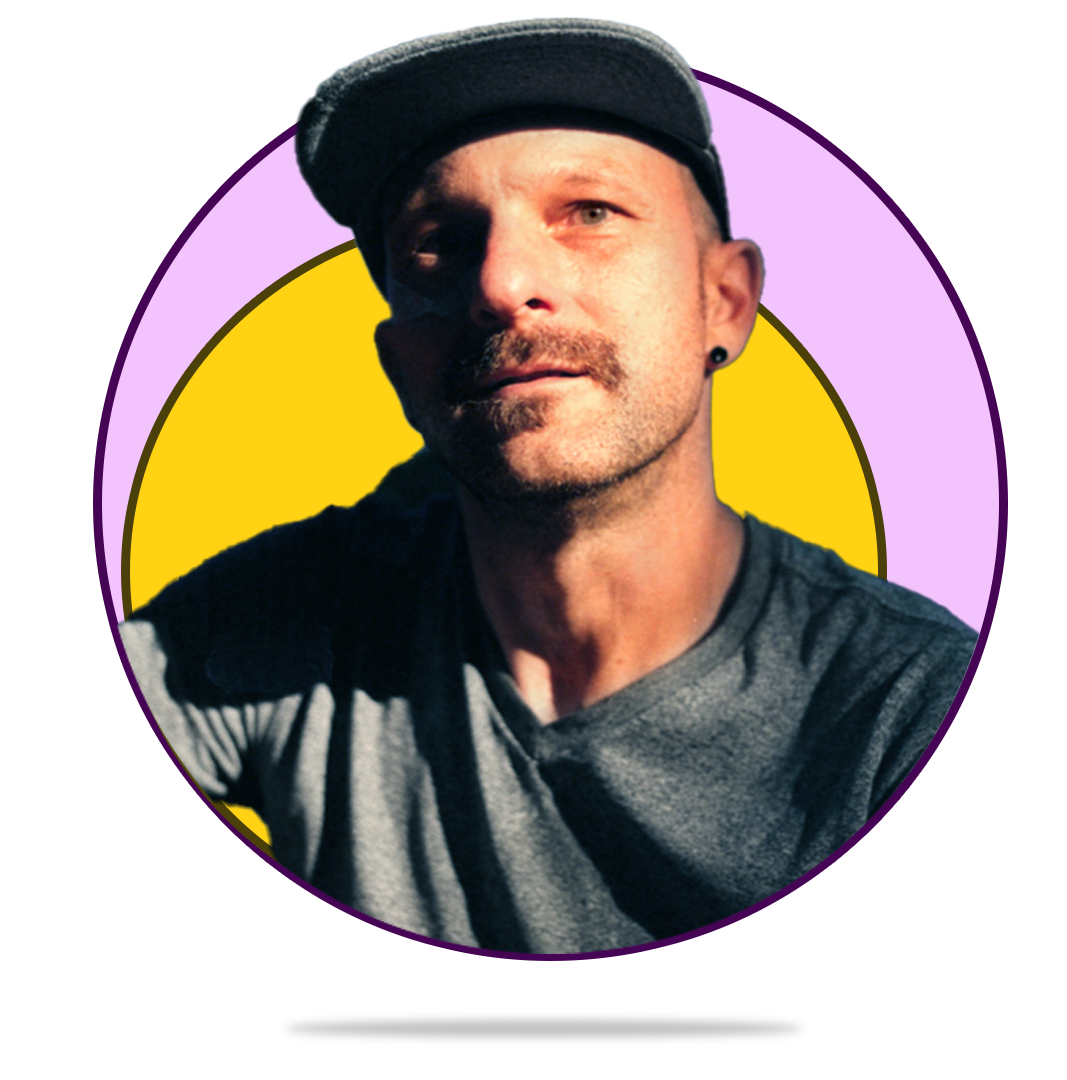
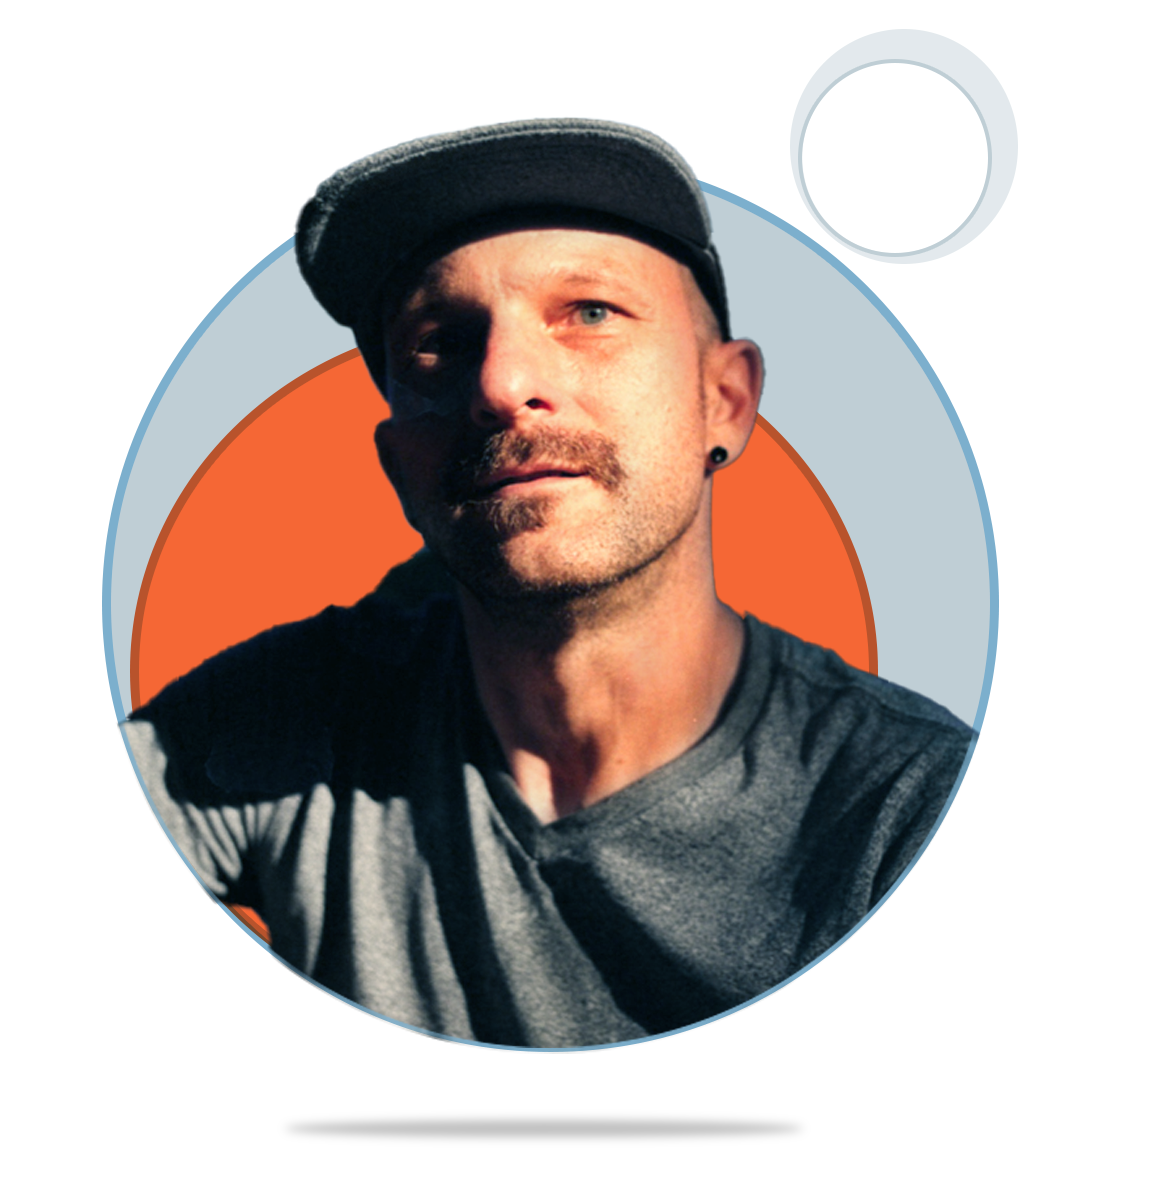
Bare bones version

diff --git a/_sass/_common.scss b/_sass/_common.scss
@@ -1,7 +1,7 @@
 // Start Default css
 
 
-@import url('https://fonts.googleapis.com/css?family=Montserrat:400,500,600,700|Oswald:300,500,600&display=swap');
+@import url('https://fonts.googleapis.com/css2?family=Lora:ital,wght@0,400..700;1,400..700&family=Montserrat:ital,wght@0,100..900;1,100..900&display=swap');
 
 *{
 	margin: 0;
@@ -22,24 +22,28 @@ a{
 h1,h2,h3,h4,h5,h6{
 	margin: 0;
 	padding: 0;
-	font-family: $font2;
+	font-family: $font1;
 	color: $title;
 }
 h1{
 	font-family: $font1;
-	font-size: 58px;
+	font-size: 6em;
 	font-weight: 700;
+	line-height: 1;
 	
 	span {
-		font-family: $font2;
+		color: $neutral;
 	}
 }
+
 h2{
 	font-size: 45px;
 	font-weight: 700;
 }
 h3{
-	font-size: 30px;
+	font-size: 2em;
+	text-transform: uppercase;
+	color: $base-minus-1;
 }
 h4{
 	font-size: 22px;
@@ -113,7 +117,7 @@ body{
 		position: relative;
 		&:after{
 		    position: absolute;
-		    content: '';
+		    //content: '';
 		    top: -20px;
 		    background: url(../images/shape/title.png) no-repeat;
 		    display: inline-block;
@@ -123,24 +127,44 @@ body{
 		}
 	}
 }
+
+.btn_group {
+	.deneb_btn {
+		margin-right:1em;
+	}
+}
 .deneb_btn{
 	display: inline-block;
 	min-width: 127px;
 	height: 45px;
 	color: $white;
-	font: 500 15px $font1;
+	font: 700 1em $font1;
 	text-align: center;
-	background: $theme_color;
+	@include gradient;
 	line-height: 45px;
-	border-radius: 23px;
+	border-radius: 4px;
 	text-transform: uppercase;
 	letter-spacing: 1px;
 	@include transition(.5s);
 	&:hover,&:focus{
-		color: $white !important;
-		box-shadow: 2.5px 4.33px 15px 0px rgba(254, 176, 0, 0.4);
+		background: darken($accent, 10%);
+		color: $white;
+		//box-shadow: 2.5px 4.33px 15px 0px rgba(254, 176, 0, 0.4);
+	}
+	
+	&.secondary {
+		color: $accent;
+		border: $accent 1px solid;
+		background: $white;
+		
+		&:hover,&:focus{
+			background: $accent;
+			color: $white;
+			//box-shadow: 2.5px 4.33px 15px 0px rgba(254, 176, 0, 0.4);
+		}
 	}
 }
+
 .link_btn{
 	color: $title;
 	&:before{

diff --git a/_sass/_project.scss b/_sass/_project.scss
@@ -18,13 +18,14 @@
 				margin-bottom: 15px;
 			}
 			&.active_btn{
-				box-shadow: 4px 6.928px 15px 0px rgba(254, 176, 0, 0.4);
-				background-image: -moz-linear-gradient( 180deg, rgb(254,176,0) 0%, rgb(255,188,38) 100%);
-				background-image: -webkit-linear-gradient( 180deg, rgb(254,176,0) 0%, rgb(255,188,38) 100%);
-				background-image: -ms-linear-gradient( 180deg, rgb(254,176,0) 0%, rgb(255,188,38) 100%);
+				//box-shadow: 4px 6.928px 15px 0px rgba(254, 176, 0, 0.4);
+				//background-image: -moz-linear-gradient( 180deg, rgb(254,176,0) 0%, rgb(255,188,38) 100%);
+				//background-image: -webkit-linear-gradient( 180deg, rgb(254,176,0) 0%, rgb(255,188,38) 100%);
+				//background-image: -ms-linear-gradient( 180deg, rgb(254,176,0) 0%, rgb(255,188,38) 100%);
+				background-color: $accent;
 				padding: 8px 25px;
 				color: $white;
-				border-radius: 30px;
+				border-radius: $border-radius;
 			}
 		}
 	}
@@ -58,7 +59,7 @@
 		}
 		overflow: hidden;
 		background: $white;
-		border-radius: 10px;
+		border-radius: $border-radius;
 		@include transition(.5s);
 		margin-bottom: 10px;
 		&:hover{
@@ -101,13 +102,11 @@
 				margin-bottom: 15px;
 			}
 			&.active_btn{
-				box-shadow: 4px 6.928px 15px 0px rgba(254, 176, 0, 0.4);
-				background-image: -moz-linear-gradient( 180deg, rgb(254,176,0) 0%, rgb(255,188,38) 100%);
-				background-image: -webkit-linear-gradient( 180deg, rgb(254,176,0) 0%, rgb(255,188,38) 100%);
-				background-image: -ms-linear-gradient( 180deg, rgb(254,176,0) 0%, rgb(255,188,38) 100%);
+				//box-shadow: 4px 6.928px 15px 0px rgba(254, 176, 0, 0.4);
+				@include gradient;
 				padding: 8px 25px;
 				color: $white;
-				border-radius: 30px;
+				border-radius: $border_radius;
 			}
 		}
 	}
@@ -118,7 +117,7 @@
 			}
 			overflow: hidden;
 			background: $white;
-			border-radius: 10px;
+			border-radius: $border-radius;
 			@include transition(.5s);
 			&:hover{
 				box-shadow: 4px 6.928px 15px 0px rgba(0, 0, 0, 0.15);

diff --git a/_includes/header.html b/_includes/header.html
@@ -5,12 +5,13 @@
 			<div class="row align-items-center">
 				<div class="col-lg-2">
 					<div class="brand">
-					  <a href="{{site.url}}" class="logo"><img src="{{site.site_logo}}" class="img-fluid" alt="{{site.title}}"/></a>
+						<a href="{{site.url}}" class="logo"><img src="{{site.site_logo}}" class="img-fluid"
+								alt="{{site.title}}" /></a>
 					</div>
 				</div>
 				<div class="col-lg-10">
 					<div class="primary_menu" id="menu">
-                       {% include navigation.html %}
+						<!--{% include navigation.html %}-->
 					</div>
 				</div>
 			</div>
@@ -20,7 +21,8 @@
 				<div class="row align-items-center">
 					<div class="col-6">
 						<div class="brand_logo">
-							<a href="{{site.url}}"><img src="{{site.site_logo}}" class="img-fluid" alt="{{site.title}}"/></a>
+							<a href="{{site.url}}"><img src="{{site.site_logo}}" class="img-fluid"
+									alt="{{site.title}}" /></a>
 						</div>
 					</div>
 					<div class="col-6">
@@ -40,18 +42,18 @@
 				</div>
 				<ul class="sidebar-menu">
 					<li class="menu-item"><a href="{{site.url}}">Home</a></li>
-                    {% for menu in site.data.navigation %}
+					{% for menu in site.data.navigation %}
 					<li class="menu-item"><a href="{{menu.url}}">{{menu.text}}</a>
 						{% if menu.submenu %}
 						<ul class="sub-menu">
-						   {% for submenu_item in menu.submenu %}
-							 <li><a href="{{submenu_item.url}}">{{submenu_item.text}}</a></li>
-						   {% endfor %}
+							{% for submenu_item in menu.submenu %}
+							<li><a href="{{submenu_item.url}}">{{submenu_item.text}}</a></li>
+							{% endfor %}
 						</ul>
 						{% endif %}
 					</li>
 					{% endfor %}
-					<li class="menu-item"><a href="/contact/" class="deneb_btn">Hire Us</a></li>
+					<li class="menu-item"><a href="/contact/" class="deneb_btn">Contact</a></li>
 				</ul>
 			</div>
 		</div>

diff --git a/_includes/slider.html b/_includes/slider.html
@@ -1,8 +1,8 @@
 <!-- Start deneb_banner section -->
 <section class="deneb_banner banner_v1">
-	<div class="shape_v1">
-		<img src="{{ "/assets/images/shape/shape_1.png" | absolute_url }}" class="shape_1" alt="slider one">
-	</div>
+	<!--div class="shape_v1">
+		<img src="{{ " /assets/images/shape/shape_1.png" | absolute_url }}" class="shape_1" alt="slider one">
+	</div-->
 	<div class="container">
 		<div class="hero_slider">
 			{% for slider in page.slider %}
@@ -13,7 +13,10 @@
 							<h1>{{ slider.heading }}</h1>
 							<h5>{{ slider.heading2 }}</h5>
 							<p>{{ slider.text }}</p>
-							<a href="{{ slider.button.link }}" class="deneb_btn">{{ slider.button.name }}</a>
+							<!--div class="btn_group">
+							<a href="{{ slider.button1.link }}" class="deneb_btn">{{ slider.button1.name }}</a>
+							<a href="{{ slider.button2.link }}" class="deneb_btn secondary">{{ slider.button2.name }}</a>
+							</div-->
 						</div>
 					</div>
 					<div class="col-lg-6">
@@ -23,7 +26,7 @@
 					</div>
 				</div>
 			</div>
-			{% endfor %}			
+			{% endfor %}
 		</div>
 	</div>
 </section>

diff --git a/_sass/_variables.scss b/_sass/_variables.scss
@@ -1,18 +1,44 @@
 // Font Family 
 
-$font1: 'Poppins', sans-serif;
+$font1: 'Montserrat', sans-serif;
 
-$font2: 'Oswald', sans-serif;
+$font2: 'Lora', serif;
 
 // Colors
-$white: #fff;
 
-$text: #7a808d;
+$white-pure: #fff;
+$black-pure: #000;
 
-$title: #460554;
+$white: #f7f6f2;
 
-$theme_color: #ffcc1f;
+$black: #011019;
 
+$base: #2A7CAE;
+$base-minus-1: lighten($base, 10%);
+$base-minus-2: lighten($base, 20%);
+$base-minus-3: lighten($base, 30%);
+$base-minus-4: lighten($base, 40%);
+
+$base-plus-1: darken($base, 10%);
+$base-plus-2: darken($base, 20%);
+$base-plus-3: darken($base, 30%);
+$base-plus-4: darken($base, 40%);
+
+$neutral: #BFCED4;
+
+$accent: #F66736;
+$accent-plus-1: darken($accent, 10%);
+
+$gold: #D4A961;
+
+$title: $base-plus-1;
+
+$text: $black;
+
+$theme_color: $accent;
+
+$border-radius: 4px;
+$border-radius2x: 8px;
 
 // Responsive Variables
 $laptop: 'only screen and (min-width: 1200px)';

diff --git a/_includes/footer.html b/_includes/footer.html
@@ -1,6 +1,6 @@
 <!-- Start footer -->
 <footer class="deneb_footer">
-	<div class="widget_wrapper" style="background-image: url(/assets/images/footer_bg.png);">
+	<!--div class="widget_wrapper" style="background-image: url(/assets/images/footer_bg.png);">
 		<div class="container">
 			<div class="row">
 				<div class="col-lg-4 col-md-6 col-12">
@@ -73,13 +73,13 @@
 				</div>
 			</div>
 		</div>
-	</div>
+	</div-->
 	<div class="copyright_area">
 		<div class="container">
 			<div class="row">
 				<div class="col-lg-12">
 					<div class="copyright_text">
-						<p>{{ site.copyright }}</p>
+						<p>Copyright &copy; 2024 <span>Dan Brown</span>. All rights reserved.</p>
 					</div>
 				</div>
 			</div>

diff --git a/_sass/_header.scss b/_sass/_header.scss
@@ -20,7 +20,6 @@
 							display: block;
 							padding: 17px 0;
 							color: #76787b;
-							font-weight: 500;
 							position: relative;
 							@media #{$lg}{
 								font-size: 14px;
@@ -38,9 +37,9 @@
 							padding: 10px 0;
 							margin:0;
 							text-align: left;
-							background: $white;
+							background: $white-pure;
 							opacity: 0;
-							border-radius: 8px;
+							border-radius: $border-radius2x;
 							visibility: hidden;
 							@include transform(scale(1,0));
 							@include transform-origin(0% 0%);

diff --git a/_sass/_about.scss b/_sass/_about.scss
@@ -32,7 +32,7 @@
 			position: relative;
 			&:after{
 			    position: absolute;
-			    content: '';
+			    //content: '';
 			    left: -10px;
 			    top: -20px;
 			    background: url(../images/shape/title.png) no-repeat;
@@ -169,7 +169,7 @@
 			position: relative;
 			&:after{
 			    position: absolute;
-			    content: '';
+			    //content: '';
 			    left: -20px;
 			    top: -20px;
 			    background: url(../images/shape/title.png) no-repeat;

diff --git a/_sass/_mixin.scss b/_sass/_mixin.scss
@@ -21,3 +21,10 @@
 	-webkit-transform-origin: $origin;
           transform-origin: $origin;
 }
+
+
+@mixin gradient ($color_one: $accent, $color_two: $accent-plus-1) {
+	background-image: -moz-linear-gradient( 180deg, $color_one 0%, $color_two 100%);
+	background-image: -webkit-linear-gradient( 180deg, $color_one 0%, $color_two 100%);
+	background-image: -ms-linear-gradient( 180deg, $color_one 0%, $color_two 100%);
+}

diff --git a/_includes/contact-area.html b/_includes/contact-area.html
@@ -13,7 +13,7 @@
 					<p>{{ page.contact_area.description }}</p>
 				</div>
 				<div class="contact_form">
-					<form method="post" action="https://formsubmit.io/send/tortoizthemes@gmail.com">
+					<form action="https://public.herotofu.com/v1/48905fc0-cf3d-11ee-a1c1-7755cb567bfd" method="post" accept-charset="UTF-8">
 						<div class="row">
 							<div class="col-lg-6">
 								<div class="form_group">

diff --git a/_sass/_contact.scss b/_sass/_contact.scss
@@ -19,12 +19,12 @@
 		.form_group{
 			margin-bottom: 30px;
 			.form_control{
-				border-radius: 30px;
+				border-radius: $border-radius;
 				width: 100%;
 				height: 45px;
 				background: $white;
 				padding-left: 20px;
-				box-shadow: 2.5px 4.33px 15px 0px rgba(0, 0, 0, 0.15);
+				//box-shadow: 2.5px 4.33px 15px 0px rgba(0, 0, 0, 0.15);
 			}
 			textarea{
 				padding-top: 20px;

diff --git a/_layouts/home.html b/_layouts/home.html
@@ -4,10 +4,6 @@ layout: default
 
 {% include slider.html %} 
 {% include services.html %}
-{% include about.html %}
-{% include achivement.html %}
-{% include latest-projects.html %}
-{% include pricing.html %}
+{% include portfolios.html %}
 {% include testimonials.html %}
-{% include latest-blog-posts.html %}
 {% include contact-area.html %}
